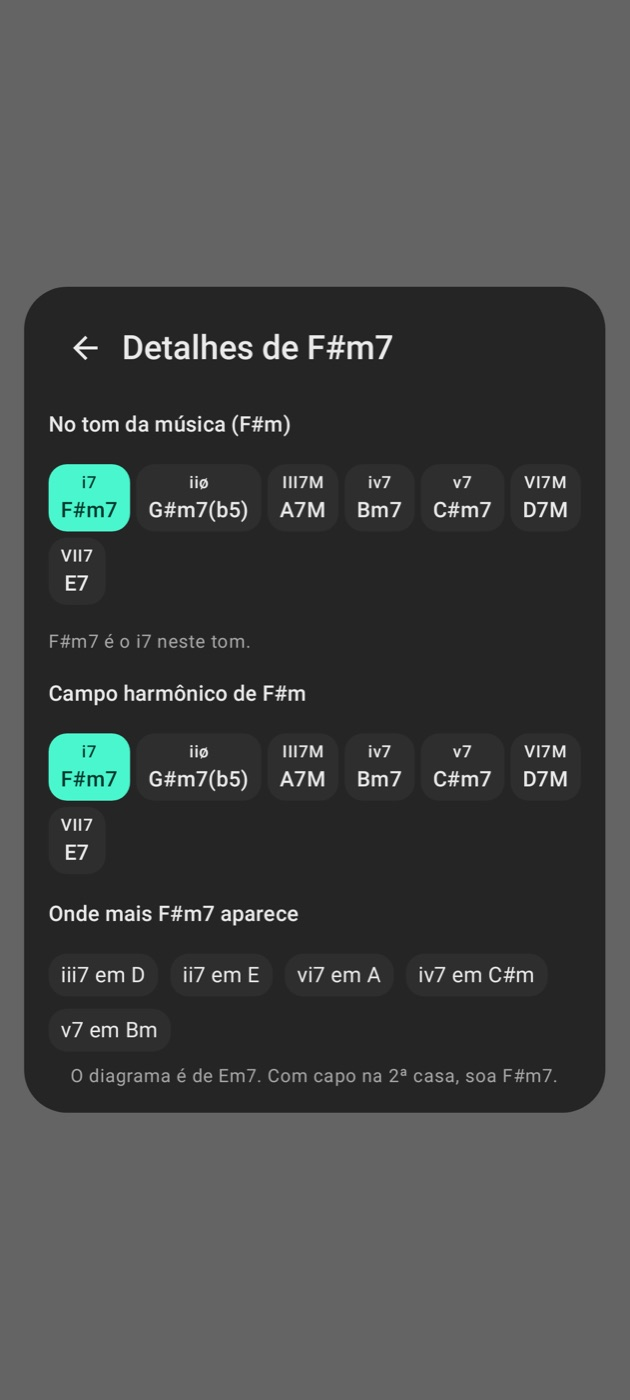
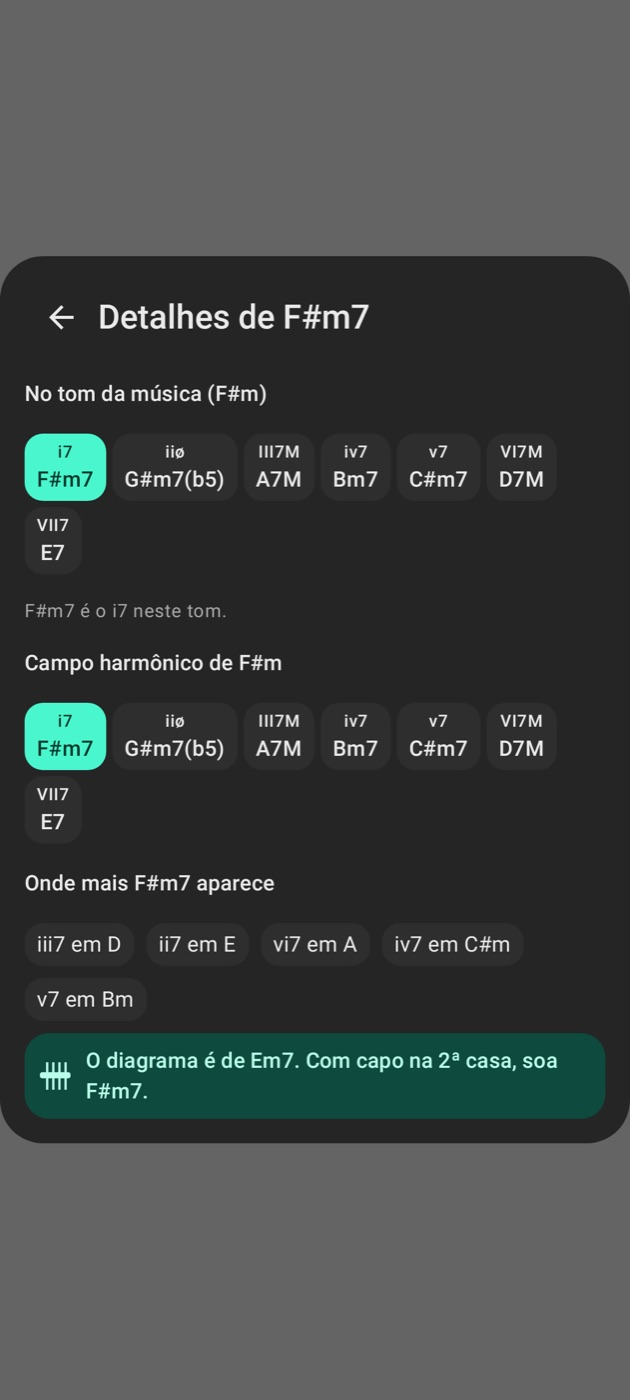
Capo note stands out in Details, which fill an upright phone · Aviso do capo em destaque nos Detalhes, que ocupam toda a largura do celular em pé
Details name another chord than the one tapped, so the reason can't be fine print. On an upright phone the window also takes the whole width.
Os Detalhes mostram outro acorde que não o tocado, então o motivo não pode ficar em letra miúda. Com o celular em pé, a janela também ocupa toda a largura.

Changed region(s): [[0.0, 0.1843, 1.0, 0.8293], [0.7841, 0.4914, 0.9048, 0.5836], [0.6635, 0.645, 0.8444, 0.7064]]

diff --git a/app/src/main/java/br/app/stagebook/ui/stage/ChordShapePopup.kt b/app/src/main/java/br/app/stagebook/ui/stage/ChordShapePopup.kt
@@ -4,6 +4,7 @@ import androidx.compose.foundation.layout.Arrangement
 import androidx.compose.foundation.verticalScroll
 import androidx.compose.foundation.layout.Column
 import androidx.compose.foundation.layout.Row
+import androidx.compose.foundation.layout.fillMaxWidth
 import androidx.compose.foundation.layout.padding
 import androidx.compose.material3.Icon
 import androidx.compose.ui.unit.dp
@@ -28,13 +29,17 @@ import androidx.compose.runtime.saveable.rememberSaveable
 import androidx.compose.runtime.setValue
 import androidx.compose.ui.Alignment
 import androidx.compose.ui.Modifier
+import androidx.compose.ui.platform.LocalWindowInfo
+import androidx.compose.ui.platform.testTag
 import androidx.compose.ui.res.stringResource
 import androidx.compose.ui.window.Dialog
+import androidx.compose.ui.window.DialogProperties
 import br.app.stagebook.R
 import br.app.stagebook.data.model.Instrument
 import br.app.stagebook.domain.Voicings
 import br.app.stagebook.ui.components.AppIcons
 import br.app.stagebook.ui.components.ChordDiagram
+import br.app.stagebook.ui.components.wideLists
 import br.app.stagebook.ui.theme.Spacing
 
 /**
@@ -75,8 +80,11 @@ fun ChordShapePopup(
     var details by rememberSaveable(chord) { mutableStateOf(false) }
     // the chord with the capo, spelled in the key that sounds: the same name here, in Details and on the stage
     val soundingKey = remember(songText) { Chords.soundingKey(Chords.key(songText), Chords.capo(songText)) }
-    Dialog(onDismissRequest = onDismiss) {
-        Surface(shape = MaterialTheme.shapes.large, color = MaterialTheme.colorScheme.surfaceContainerHigh) {
+    // Details on an upright phone take the whole width: the field fits in fewer rows
+    val window = LocalWindowInfo.current.containerSize
+    val fullWidth = details && !wideLists() && window.height > window.width
+    Dialog(onDismissRequest = onDismiss, properties = DialogProperties(usePlatformDefaultWidth = !fullWidth)) {
+        Surface(Modifier.testTag("chord_window").then(if (fullWidth) Modifier.fillMaxWidth() else Modifier), shape = MaterialTheme.shapes.large, color = MaterialTheme.colorScheme.surfaceContainerHigh) {
             // a phone on its side is shorter than Details: it scrolls
             Column(Modifier.verticalScroll(androidx.compose.foundation.rememberScrollState()).padding(Spacing.m), horizontalAlignment = Alignment.CenterHorizontally, verticalArrangement = Arrangement.spacedBy(Spacing.s)) {
                 if (details) {
@@ -84,15 +92,8 @@ fun ChordShapePopup(
                     // sounds); only here: most taps never open Details, and a song with no key has to be read for one
                     val songKey = remember(songText) { soundingKey.ifEmpty { Chords.soundingKey(Chords.detectKey(songText), Chords.capo(songText)) } }
                     val sounding = if (capo > 0) Chords.transposeChord(chord, capo, key = songKey) else chord
-                    ChordDetails(sounding, songKey, onBack = { details = false })
-                    if (capo > 0) {
-                        Text(
-                            stringResource(R.string.chord_capo_note, chord, capo, sounding),
-                            style = MaterialTheme.typography.bodySmall,
-                            color = MaterialTheme.colorScheme.onSurfaceVariant,
-                            textAlign = androidx.compose.ui.text.style.TextAlign.Center,
-                        )
-                    }
+                    ChordDetails(sounding, songKey, fullWidth, onBack = { details = false })
+                    if (capo > 0) CapoNote(stringResource(R.string.chord_capo_note, chord, capo, sounding), if (fullWidth) Modifier.fillMaxWidth() else Modifier.widthIn(max = 420.dp))
                     return@Column
                 }
                 if (count == 0) {
@@ -163,7 +164,7 @@ fun ChordShapePopup(
  */
 @OptIn(androidx.compose.foundation.layout.ExperimentalLayoutApi::class)
 @Composable
-private fun ChordDetails(chord: String, songKey: String, onBack: () -> Unit) {
+private fun ChordDetails(chord: String, songKey: String, fullWidth: Boolean, onBack: () -> Unit) {
     val triad = remember(chord) { Chords.triad(chord) }
     val own = triad?.takeIf { !it.dim }?.let { Chords.keyName(it.root, it.minor) }
     // with a seventh, the fields use seventh chords (Gmaj7, Am7…) and the degree only lights if the seventh matches
@@ -171,7 +172,7 @@ private fun ChordDetails(chord: String, songKey: String, onBack: () -> Unit) {
     val place = remember(chord, songKey) { if (songKey.isEmpty()) null else HarmonicField.placeIn(chord, songKey) }
     val degree = place?.label
     val where = remember(chord) { HarmonicField.appearances(chord) }
-    Column(Modifier.widthIn(max = 420.dp), verticalArrangement = Arrangement.spacedBy(Spacing.m)) {
+    Column(if (fullWidth) Modifier.fillMaxWidth() else Modifier.widthIn(max = 420.dp), verticalArrangement = Arrangement.spacedBy(Spacing.m)) {
         Row(verticalAlignment = Alignment.CenterVertically) {
             IconButton(onClick = onBack) { Icon(AppIcons.Back, stringResource(R.string.chord_back_to_shape)) }
             Text(stringResource(R.string.chord_details_title, chord), style = MaterialTheme.typography.titleLarge)
@@ -202,6 +203,17 @@ private fun ChordDetails(chord: String, songKey: String, onBack: () -> Unit) {
                     }
                 }
             }
+        }
+    }
+}
+
+/** Why Details name another chord than the one tapped: the capo. It stands out, or the musician takes the name for a mistake. */
+@Composable
+private fun CapoNote(text: String, modifier: Modifier = Modifier) {
+    Surface(modifier, shape = MaterialTheme.shapes.medium, color = MaterialTheme.colorScheme.primaryContainer) {
+        Row(Modifier.padding(Spacing.s), horizontalArrangement = Arrangement.spacedBy(Spacing.s), verticalAlignment = Alignment.CenterVertically) {
+            Icon(AppIcons.Capo, null)
+            Text(text, style = MaterialTheme.typography.titleSmall)
         }
     }
 }

diff --git a/app/src/test/java/br/app/stagebook/ChordPlayTest.kt b/app/src/test/java/br/app/stagebook/ChordPlayTest.kt
@@ -2,6 +2,8 @@ package br.app.stagebook
 
 import androidx.compose.ui.test.junit4.createComposeRule
 import androidx.compose.ui.test.onAllNodesWithText
+import androidx.compose.ui.test.getBoundsInRoot
+import androidx.compose.ui.test.onNodeWithTag
 import androidx.compose.ui.test.onNodeWithText
 import androidx.compose.ui.test.onNodeWithContentDescription
 import androidx.compose.ui.test.assertIsDisplayed
@@ -107,6 +109,22 @@ class ChordPlayTest {
         compose.onNodeWithText("Detalhes de F#m7").assertExists()
         compose.onNodeWithText("No tom da música (F#m)").assertExists()
     }
+
+    private fun detailsWidth(): androidx.compose.ui.unit.Dp {
+        compose.setContent { StagebookTheme { ChordShapePopup("Em7", Instrument.ACOUSTIC_GUITAR, "{key: Em}\n{capo: 2}\n[Em7]um [G]dois", {}, {}) } }
+        compose.onNodeWithText("Detalhes").performScrollTo().performClick()
+        compose.waitForIdle()
+        return compose.onNodeWithTag("chord_window").getBoundsInRoot().let { it.right - it.left }
+    }
+
+    @Config(qualifiers = "pt-rBR-w412dp-h915dp-port")
+    @Test fun `Details take the whole width on an upright phone`() = assertEquals(412f, detailsWidth().value, 1f)
+
+    @Config(qualifiers = "pt-rBR-w915dp-h412dp-land")
+    @Test fun `Details stay a window on a phone on its side`() = assertTrue(detailsWidth().value < 600f)
+
+    @Config(qualifiers = "pt-rBR-w800dp-h1280dp-port")
+    @Test fun `Details stay a window on an upright tablet`() = assertTrue(detailsWidth().value < 600f)
 
     @Config(qualifiers = "pt-rBR-w320dp-h640dp")
     @GraphicsMode(GraphicsMode.Mode.NATIVE)   // real text widths: the default mode measures text too narrow to overflow
